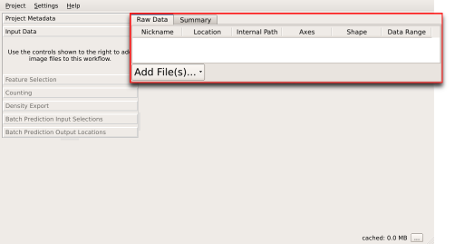
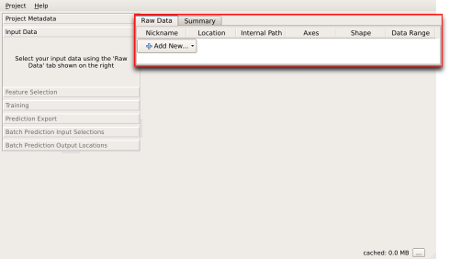
Add documentation for the data selection applet.

Changed region(s): [[0.0, 0.0, 0.9956, 0.5738], [0.8089, 0.9467, 0.9956, 1.0], [0.0, 0.1148, 0.0933, 0.1434]]

diff --git a/documentation/startup/dataselection.md b/documentation/startup/dataselection.md
@@ -1,82 +1,127 @@
 ---
 layout: documentation
-title: Data selection 
-tagline: 
+title: Data selection
+tagline:
 category: "Documentation"
 group: "basic-documentation"
 weight: 1
 ---
-# Data selection dialog
+# Data Selection Applet
 
 The first step in any Ilastik workflow is to load the data into the
-project. It is possible to import data in various forms and formats. The
-data can be in a single file or a stack of files which form a
-new dimension.
+project. Ilastik supports importing data in [various formats](#formats), from
+a single file or a stack of files which form a new dimension.
 
 <div style="float: right;" markdown="1">
 ![](screenshots/data_selection-window_layout.png)
 </div>
 
-After creating a new project, you'll be presented with the main Ilastik
+After creating a new project, you will be presented with the main Ilastik
 window. The left panel of this window is populated with steps of the
 workflow and the overlay selection box. The right panel contains different
-data views based on the active workflow step selected on the left. The data
-selection box is shown at the top of the right panel when the `Input Data`
-item on the left is active.
+data views based on the active workflow step selected on the left.
 
-The data selection box can be used to add data to the project and modify
-various properties, such as transforming coordinates if necessary.
+Data can be added to a project in the "Input Data" step visible on the left
+panel. When this step is active, the data selection box on the right panel
+can be used to import new data files or [modify properties](#properties) of
+selected files.
 
-### Add File button
 
-In order to import new data, the `Add
-File(s)...` button clearly visible
-The add file 
+New data can be imported in a project with the "Add New..." button.
+Clicking this will present two options,
+ * Add one or more separate files...
+ * Add Volume from Stack...
+
+These can be used to [load data from a single file](#single_file) or [load
+an image stack](#image_stack) respectively.
+
+<div style="float: left;" markdown="1">
+![](screenshots/data_selection-tabs.png)
+</div>
+Some workflows require matching datasets that correspond to an input. For
+example, the
+[object classification from prediction maps workflow]({{baseurl}}/documentation/objects/objects.html) needs a separate
+file to specify the background pixels in the input data. In this case, tabs
+visible at the top of the data selection box can be used to import
+additional data corresponding to an input.
 
 <div style="clear: right;" />
 
-## Loading data from a single file
+## Loading data from a single file {#single_file}
 
-If your data is in a single file, this can be added easily using the `Add
-File(s)...` button clearly visible at the lower border of the data
-selection box.
-
-Clicking this button will present a standard file open dialog, where the
-desired input file can be selected. This dialog also allows selecting
+You can use the "Add one or more separate files..." option to add new data
+files to a project. This will present a standard file open dialog, where
+the desired input file can be selected. This dialog also allows selecting
 multiple files. Note that multiple files will be added as if the dialog was
 used once for each of these. See the following section for instructions on
-how to interpret multiple files as a new dimension in the
-data.
+how to interpret multiple files as a new dimension in the data.
 
-## Loading image stacks
+## Loading image stacks {#image_stack}
 
 If one dimension of the data is separated into different files, such as a
 stack of 2D images to form a 3D image or a sequence of 2D images for each
 frame in a movie, this option can be used to form a new dimension based on
 a list of files.
 
+<div style="float: right;" markdown="1">
+![](screenshots/data_selection-image_stack.png)
+</div>
+
+Selecting this option will open a new dialog to select the files that will
+be included in the stack. The selection can be specified in three ways:
+ * selecting multiple files using the standard system file open dialog,
+ * selecting all files in a directory
+ * using a filename pattern (with [Unix style patterns](http://docs.python.org/2/library/glob.html))
+
+Once a selection has been made, the `File List` box can be used to review
+the names of the files that will be imported as an image stack.
 
 
-`Add Volume from Stack...`
+<div style="clear: right;" />
 
-## Using a file name pattern to specify multiple files
+## Supported File Formats {#formats}
 
-`Add Many by Pattern...`
+The main file format used by Ilastik is [HDF5](http://www.hdfgroup.org/HDF5/whatishdf5.html). Files with extensions `h5`, `hdf5`, `ilp` (Ilastik project files) will be recognized as HDF5.
 
-  This option allows loading several files by specifying a file name
-  pattern. Note that the files loaded in this step are not interpreted as a
-  new dimension. This is similar to using the multiple file selection
-  option of the `Add File(s)...` item.
+Widely used image formats such as
+ * Microsoft Windows bitmap image file (`bmp`),
+ * OpenEXR high dynamic range image format (`exr`) (requires `libopenexr` support in VIGRA) ,
+ * CompuServe graphics interchange format; 8-bit color (`gif`),
+ * Joint Photographic Experts Group JFIF format; compressed 24-bit color (`jpeg` or `jpg`) (requires `libjpeg` support in VIGRA)
+ * Tagged Image File Format (`tif` or `tiff`) (requires `libtiff` support in VIGRA)
+ * SUN Rasterfile (`ras`)
+ * Portable Network Graphic (`png`) (requires `libpng` support in VIGRA)
+ * Portable bitmap format (black and white) (`pbm`)
+ * Portable graymap format (gray scale) (`pgm`)
+ * Portable pixmap format (color) (`ppm`)
+ * Portable anymap (`pnm`)
+ * Radiance RGBE high dynamic range image format (`hdr`)
+ * Khoros Visualization image file (`xv`)
+
+can be imported directly into a project, as well as NumPy binary array
+files with extension `npy`.
 
 
-Same number of channels
+## File properties {#properties}
 
-## File properties
+<div style="float: right;" markdown="1">
+![](screenshots/data_selection-file_properties.png)
+</div>
 
-- Nickname
-- Shape
-- Data type
-- Axes
-- Range
-- Normalize
-- Internal
+Double clicking on an input file in the data selection box opens the file
+properties dialog. This dialog can be used to review and change how Ilastik
+interprets the data file.
+
+- **Nickname:** short name used to identify the data
+- **Shape:** specifies the sizes of each dimension
+- **Data type:** data type used to interpret the binary data in the file. This is selected automatically based on the file type.
+- **Axes:** Axes tags indicating how each dimension should be interpreted.
+The letters `t` and `c` correspond to time and color dimensions
+respectively. Ilastik differentiates 2D + time data from 3D data, computing
+temporal features for the former. Marking a dimension as time changes
+ilastik behavior.
+- **Range:**
+- **Normalize:**
+- **Internal Dataset Name:**
+- **Storage:**
+- **Channel Display:**
